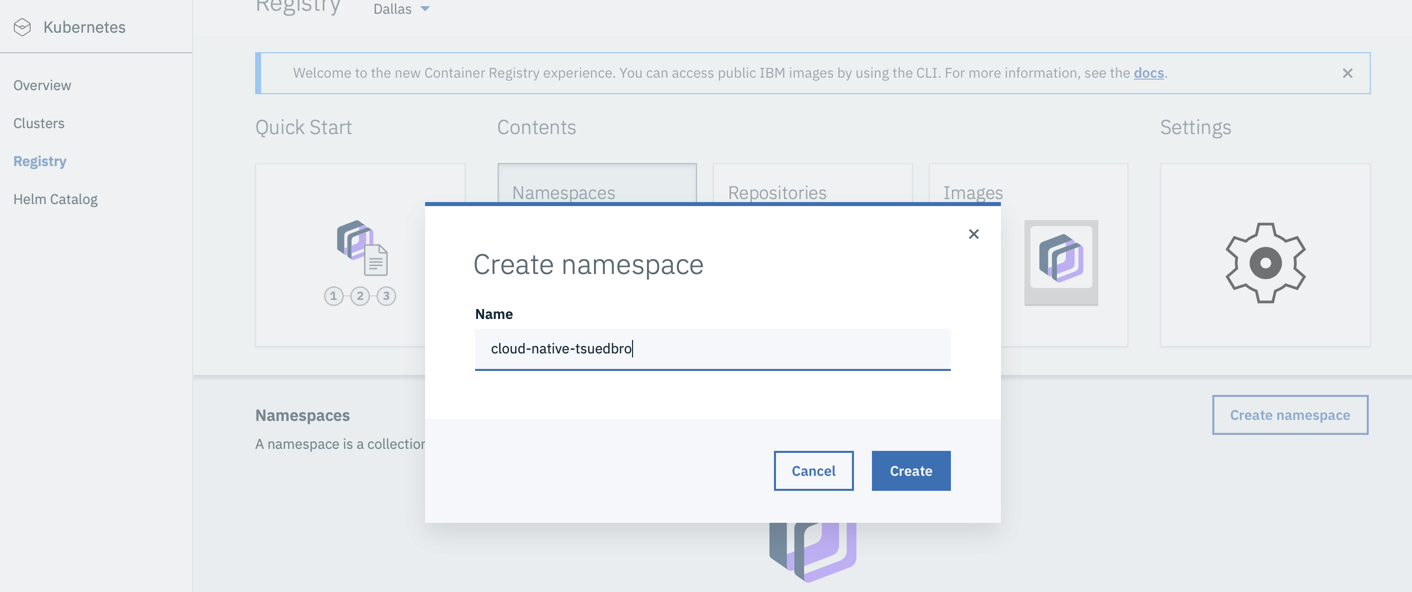
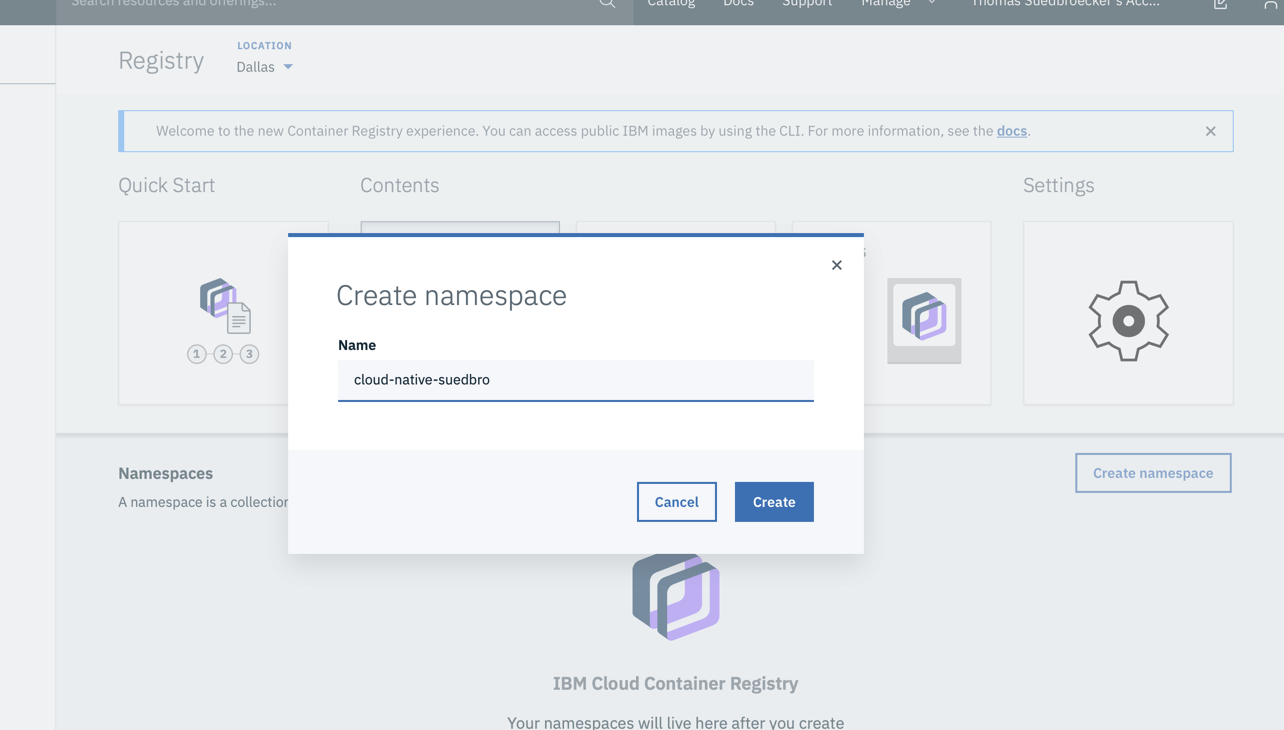
update workshop

diff --git a/workshop-one-service/0-create-kubernetes-cluster.md b/workshop-one-service/0-create-kubernetes-cluster.md
@@ -69,7 +69,7 @@ The creation of the custer takes up to 20 min.
 
 # 3 Configure the IBM Cloud Container Registry <a name="part-SETUP-03"></a>
 
-1. Select in **Kubernetes** the entry **Registry**
+1. Select in **Kubernetes** the entry **Registry** and ensure your are in the **Dallas location**.
 
 ![Select in Kubernetes the entry Registry](images/ibmcloud-configure-container-registry-1.png)
 
@@ -79,7 +79,12 @@ The creation of the custer takes up to 20 min.
 
 _Note:_ Namespaces are required to be **unique** across the entire **region** that the **specific registry** is located in, not just ***unique to your account**. This is mentioned in the following [public documentation](https://cloud.ibm.com/docs/services/Registry?topic=registry-getting-started#gs_registry_namespace_add).
 
+3. Verify the namespace was created
 
+![Verify the namespace was created](images/ibmcloud-configure-container-registry-3.png)
 
+---
+
+Now we have created a free IBM Kubernetes Cluster and we configured the IBM Cloud Container Registry.
 
 __Continue with [the tools prerequisites](./1-prereqs.md#tools)__ 
